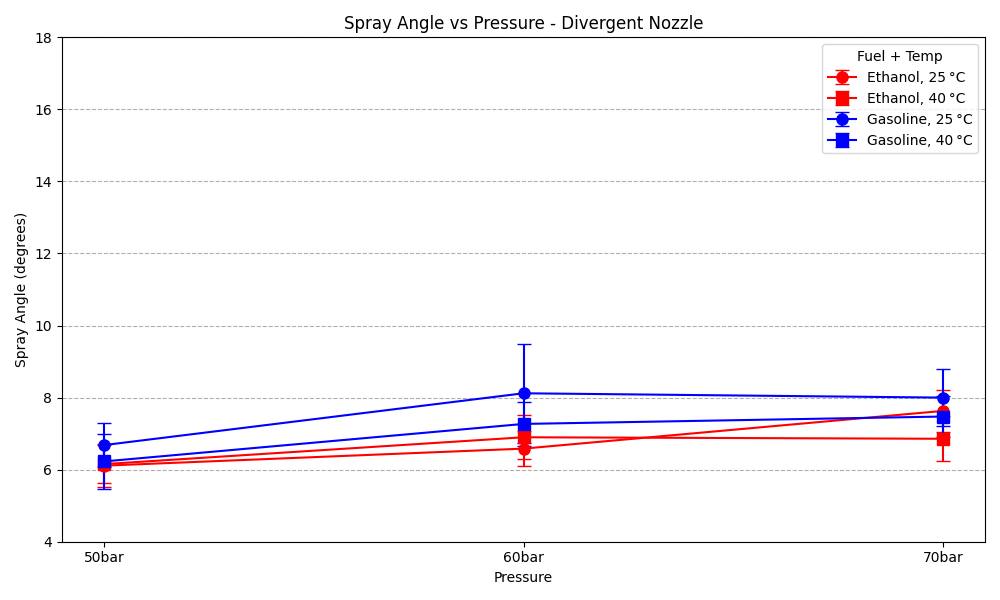
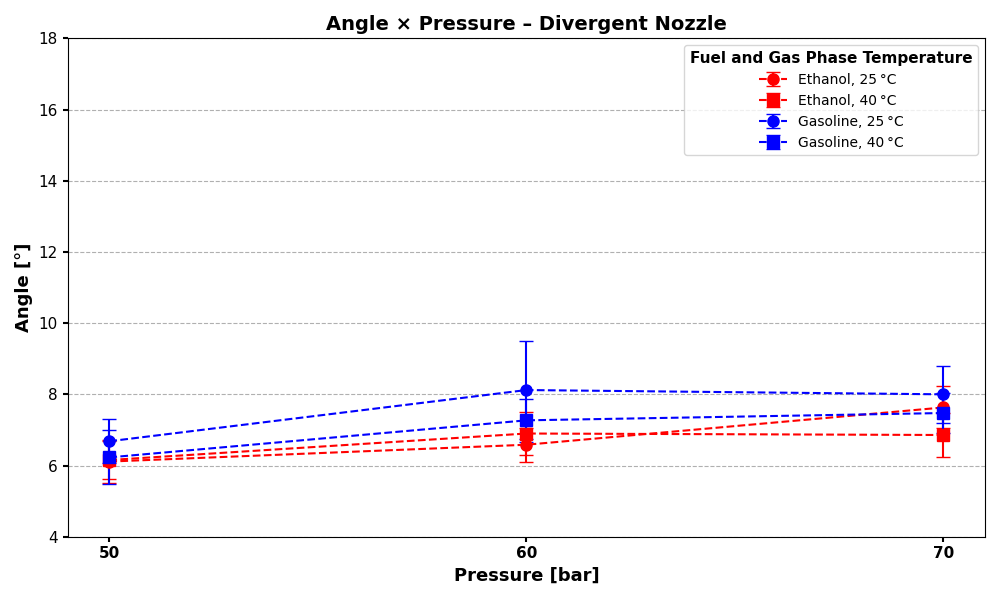
add

diff --git a/mass_angle_plot.py b/mass_angle_plot.py
@@ -4,8 +4,8 @@ import pandas as pd
 import matplotlib.pyplot as plt
 import numpy as np
 
-# === CONFIG ===
-CSV_FOLDER = '.'  # current folder
+# === CONFIGURATION ===
+CSV_FOLDER = '.'  # Current folder
 USE_STD = True
 pressure_order = ['50bar', '60bar', '70bar']
 Y_LIMS = (4, 18)
@@ -13,12 +13,13 @@ Y_TICKS = np.arange(Y_LIMS[0], Y_LIMS[1] + 1, 2)
 OUTPUT_CSV = 'spray_angle_summary.csv'
 # =====================
 
-# Conversion maps
+# === MAPPINGS ===
 FUEL_MAP = {'etanol': 'Ethanol', 'gasolina': 'Gasoline'}
 NOZZLE_MAP = {'conv': 'Convergent', 'div': 'Divergent'}
 FUEL_COLOR = {'Ethanol': 'red', 'Gasoline': 'blue'}
 TEMP_MARKER = {'25 °C': 'o', '40 °C': 's'}
 
+# === EXTRACTORS ===
 def extract_fuel(csv_name):
     match = re.search(r'spray_angles_(etanol|gasolina)_', csv_name)
     return FUEL_MAP.get(match.group(1), match.group(1).capitalize()) if match else 'Unknown'
@@ -35,9 +36,11 @@ def extract_nozzle(csv_name):
     match = re.search(r'_(conv|div)_\d{2}C', csv_name)
     return NOZZLE_MAP.get(match.group(1), match.group(1).capitalize()) if match else 'Unknown'
 
-# === Load Data ===
-csv_files = [f for f in os.listdir(CSV_FOLDER) if f.lower().endswith('.csv')]
-data = {}
+# === LOAD DATA ===
+csv_files = [f for f in os.listdir(CSV_FOLDER)
+             if f.lower().endswith('.csv') and f.startswith('spray_angles_')]
+
+data = {}  # (fuel, nozzle, temp) → pressure → (mean, std)
 rows = []
 
 for file in sorted(csv_files):
@@ -71,17 +74,19 @@ for file in sorted(csv_files):
     except Exception as e:
         print(f"[!] Failed to process {file}: {e}")
 
-# === Save CSV Summary ===
+# === SAVE SUMMARY CSV ===
 summary_df = pd.DataFrame(rows)
 summary_df = summary_df.sort_values(by=['Fuel', 'Nozzle', 'Temperature', 'Pressure'])
 summary_df.to_csv(OUTPUT_CSV, index=False)
 
+# === PRINT SUMMARY TO TERMINAL ===
 print("\n=== Spray Angle Summary ===")
 print(summary_df.to_string(index=False))
 
-# === Plot Separate Figures for Each Nozzle Type ===
+# === PLOT FOR EACH NOZZLE TYPE ===
 for nozzle_type in ['Convergent', 'Divergent']:
-    plt.figure(figsize=(10, 6))
+    fig, ax = plt.subplots(figsize=(10, 6))
+
     for (fuel, nozzle, temp), pressures_dict in data.items():
         if nozzle != nozzle_type:
             continue
@@ -89,6 +94,7 @@ for nozzle_type in ['Convergent', 'Divergent']:
         means = []
         errors = []
         xs = []
+
         for i, pressure in enumerate(pressure_order):
             if pressure in pressures_dict:
                 m, e = pressures_dict[pressure]
@@ -101,21 +107,33 @@ for nozzle_type in ['Convergent', 'Divergent']:
             color = FUEL_COLOR.get(fuel, 'black')
             marker = TEMP_MARKER.get(temp, 'o')
 
-            plt.errorbar(xs, means, yerr=errors,
-                         fmt=marker + '-', label=label,
-                         color=color, capsize=5, markersize=8)
+            ax.errorbar(
+                xs, means, yerr=errors,
+                fmt=marker + '--',
+                label=label,
+                color=color,
+                capsize=5,
+                markersize=8
+            )
 
-    plt.xticks(range(len(pressure_order)), pressure_order)
-    plt.xlabel('Pressure')
-    plt.ylabel('Spray Angle (degrees)')
-    plt.title(f'Spray Angle vs Pressure - {nozzle_type} Nozzle')
-    plt.grid(True, axis='y', linestyle='--')
-    plt.ylim(Y_LIMS)
-    plt.yticks(Y_TICKS)
-    plt.legend(title='Fuel + Temp')
-    plt.tight_layout()
+    ax.set_xticks([0, 1, 2])
+    ax.set_xticklabels(['50', '60', '70'], fontweight='bold', fontsize=12)
+    ax.set_yticks(Y_TICKS)
+    ax.set_ylim(Y_LIMS)
+    ax.set_xlabel('Pressure [bar]', fontweight='bold', fontsize=13)
+    ax.set_ylabel('Angle [°]', fontweight='bold', fontsize=13)
+    ax.set_title(f'Angle × Pressure – {nozzle_type} Nozzle', fontweight='bold', fontsize=14)
+    ax.tick_params(axis='y', labelsize=11, labelcolor='black', width=1.5)
+    ax.tick_params(axis='x', labelsize=11, labelcolor='black', width=1.5)
+    ax.grid(True, axis='y', linestyle='--')
 
-    # Save the figure
+    legend = ax.legend(
+        title='Fuel and Gas Phase Temperature',
+        title_fontproperties={'weight': 'bold', 'size': 11},
+        fontsize=10
+    )
+
+    fig.tight_layout()
     filename = f'Spray_angle_variance_{nozzle_type.lower()}.png'
-    plt.savefig(filename)
+    fig.savefig(filename)
     plt.show()
